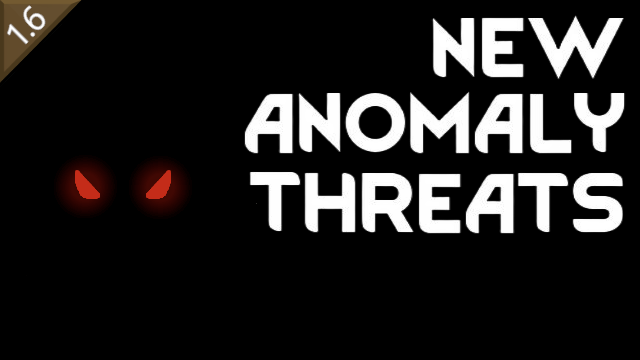
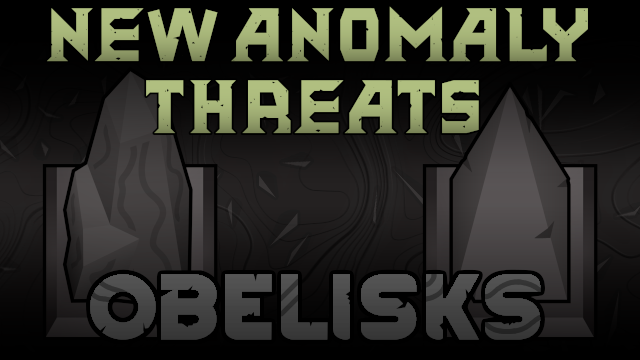
upd

diff --git a/Source/NewAnomalyThreatsObelisks/DefOf.cs b/Source/NewAnomalyThreatsObelisks/DefOf.cs
@@ -11,6 +11,6 @@ namespace NAT
 	[DefOf]
 	public static class NATODefOf
 	{
-		
+		public static HediffDef NAT_Calamity;
 	}
 }

diff --git a/Source/NewAnomalyThreatsObelisks/Hediff_Calamity.cs b/Source/NewAnomalyThreatsObelisks/Hediff_Calamity.cs
@@ -57,5 +57,7 @@ namespace NAT
 				CalamityUtility.activeHediffs.Add(this);
 			}
 		}
+
+
     }
 }